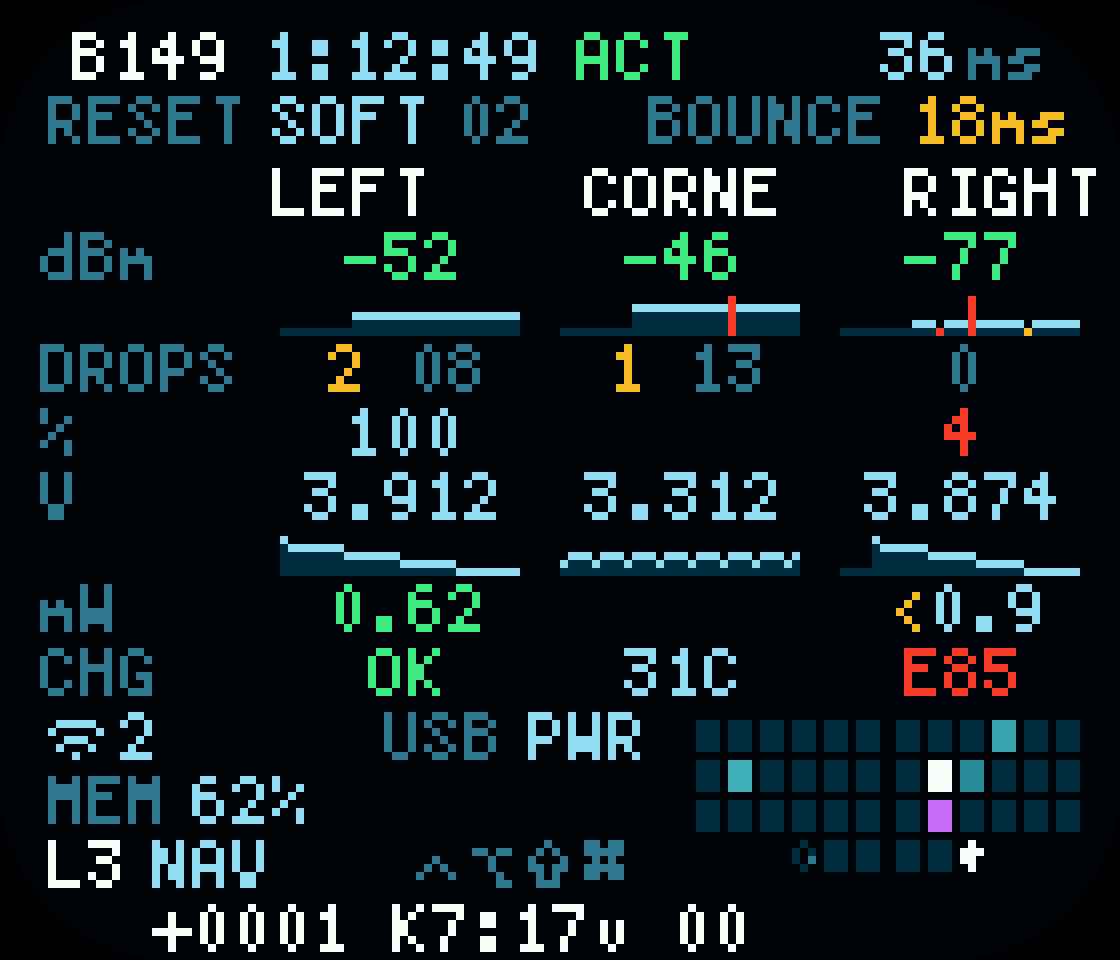
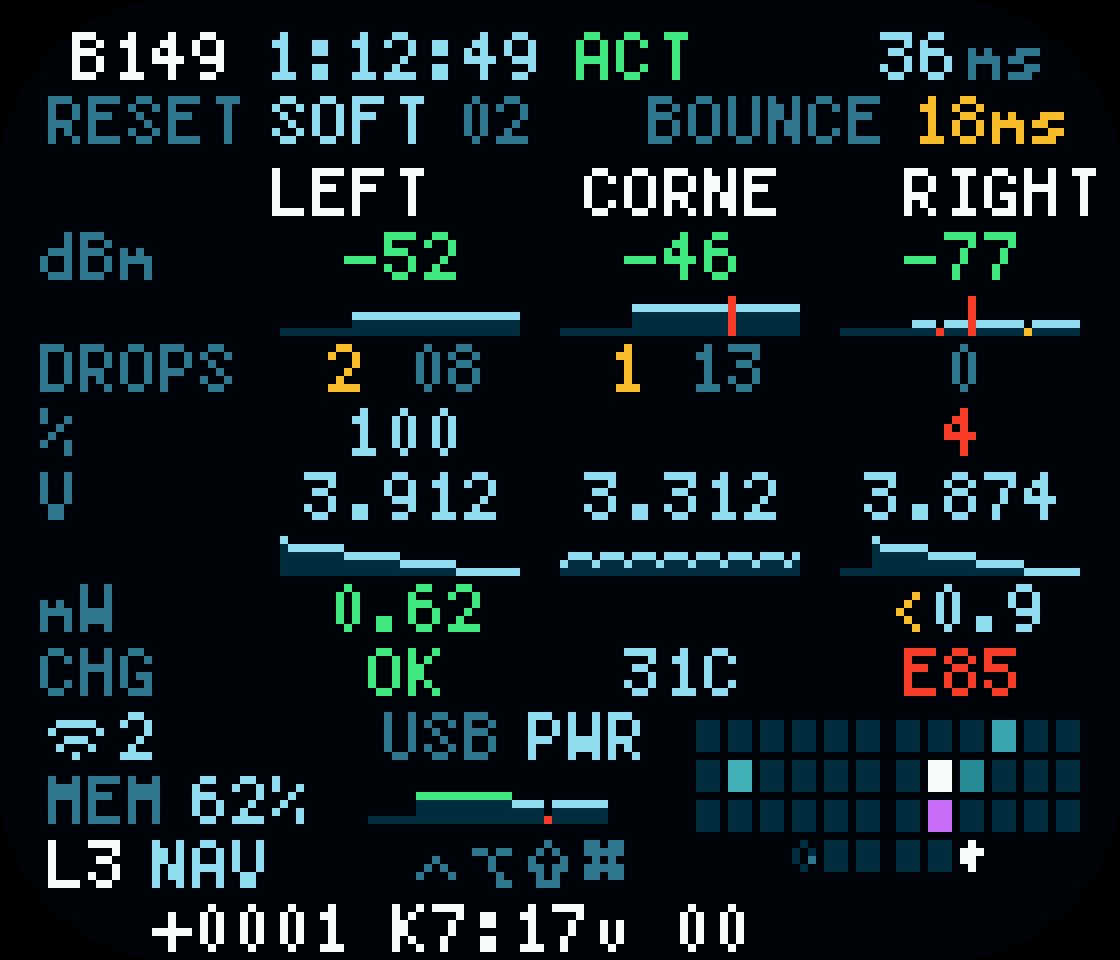
Clash: the dongle shows itself; Debug: the animations' frame rate
- The dongle on Clash's desk shows the last frame on its screen, so a
  picture of itself, smaller and smaller, and one cut in seven goes to it
  instead of a key. A 35x30 copy of the frame (1 KB) is all it keeps.
- Debug charts the animations' frame rate over the last 10 minutes, a
  column each 20 s, beside MEM, where there was room before the key map.
- Fix the build: the frame rate readout's `rate` clashed with the
  energy's.

Claude-Session: https://claude.ai/code/session_01UMKUY2wwN6UBcavEJGGmqi

Changed region(s): [[0.3125, 0.8125, 0.5625, 0.875]]

diff --git a/src/screen_fx/fx.c b/src/screen_fx/fx.c
@@ -1216,6 +1216,19 @@ static void mv_chart(uint8_t *fb, int x, int y, const uint16_t *log, int span) {
     chart(fb, x, y, high, color);
 }
 
+/* The animations' frame rate (fx_debug's fps_log): 30 fps the full height,
+ * green from 24, plain from 15, amber under that and red under 8; nothing
+ * where none was showing. */
+static void fps_chart(uint8_t *fb, int x, int y, const uint8_t *log) {
+    uint8_t high[DBG_CHART_W], color[DBG_CHART_W];
+    for (int i = 0; i < DBG_CHART_W; i++) {
+        const int fps = log[FX_FPS_HISTORY - DBG_CHART_W + i], h = fps ? 1 + fps * (DBG_CHART_H - 1) / 30 : 0;
+        high[i] = (uint8_t)(h > DBG_CHART_H ? DBG_CHART_H : h);
+        color[i] = fps >= 24 ? DBG_GOOD : fps >= 15 ? DBG_TEXT : fps >= 8 ? DBG_WARN : DBG_BAD;
+    }
+    chart(fb, x, y, high, color);
+}
+
 /* Text centred in column `col` of the table. */
 static void put_col(uint8_t *fb, int col, int y, const char *s, uint8_t color) {
     put(fb, DBG_COL_X(col) + (DBG_COL_W - (5 * (int)strlen(s) - 1)) / 2, y, s, color);
@@ -1542,8 +1555,13 @@ static void debug_frame(uint8_t *fb, const struct fx_input *in) {
     put(fb, x, out_y, d->usb == 2 ? "HID" : d->usb == 1 ? "PWR" : "--",
         d->usb == 2 ? (usb_out && in->status->host_connected ? DBG_GOOD : DBG_TEXT) : DBG_TEXT);
 
+    /* where the key map goes, bottom right */
+    const int board_pitch = board_cols > 10 ? 4 : 5;
+    const int board_left = FX_W - 1 - fx_corner_inset(out_y, out_y + 20) - board_cols * board_pitch;
+
     /* LVGL's memory used; then, only if there are any, the USB reports the
-     * computer didn't take (UE, as on Status) */
+     * computer didn't take (UE, as on Status); then the animations' frame
+     * rate, if there is room before the key map */
     x = 6;
     if (d->heap_known) {
         x = put(fb, x, out_y + 8, "MEM", DBG_LABEL) + 3;
@@ -1553,6 +1571,10 @@ static void debug_frame(uint8_t *fb, const struct fx_input *in) {
     if (d->usb_errors) {
         snprintf(buf, sizeof(buf), "UE%u", d->usb_errors > 99 ? 99 : d->usb_errors);
         x = put(fb, x, out_y + 8, buf, DBG_WARN) + 3;
+    }
+    x = x > 46 ? x : 46;
+    if (x + DBG_CHART_W <= board_left - 2) {
+        fps_chart(fb, x, out_y + 9, d->fps_log);
     }
 
     /* the layer (number and name), the modifiers lit while held; in the
@@ -1590,8 +1612,6 @@ static void debug_frame(uint8_t *fb, const struct fx_input *in) {
     }
 
     /* every key, lit while held: one that doesn't light isn't reaching the dongle */
-    const int board_pitch = board_cols > 10 ? 4 : 5;
-    const int board_left = FX_W - 1 - fx_corner_inset(out_y, out_y + 20) - board_cols * board_pitch;
     board(fb, in, board_left, out_y + 1, board_pitch, 4, 1, 1);
 }
 
@@ -2372,6 +2392,17 @@ static struct wall_tile {
     uint8_t tile, shade;          /* which, and how lit (256ths, less one) */
 } loose[TILES], wall_now; /* wall_now: the wall still standing, as one tile the size of the picture */
 
+/* The dongle's own screen, in Clash: the last frame, small, a pixel for
+ * each 4 by 4, found on the screen ray by ray (FILL_PICTURE), so it shows
+ * itself, smaller and smaller. Where the screen is: its top left corner,
+ * along its top, down its side, and its normal. */
+#define THUMB_W (FX_W / 4)
+#define THUMB_H (FX_H / 4)
+static uint8_t show_thumb[THUMB_H][THUMB_W];
+static bool show_live;
+static uint8_t show_screen_id;
+static float show_scr_o[3], show_scr_x[3], show_scr_y[3], show_scr_n[3];
+
 /* The points of the face being drawn, in the camera's space: static, as
  * the dongle's display thread has a small stack, and shared, as RAM is short. */
 static float show_cam_pts[SHOW_PTS][3];
@@ -2439,7 +2470,30 @@ static void part_point(float *out, const struct fx_part *p, float u, float v, fl
     show_point(out, p->x + u * c - v * s, p->y + u * s + v * c, z, p->kind & FX_PART_RIGHT ? -1 : 1);
 }
 
-enum { FILL_SOLID, FILL_GLINT, FILL_FLOOR_SHADOW, FILL_TOP_SHADOW };
+enum { FILL_SOLID, FILL_GLINT, FILL_FLOOR_SHADOW, FILL_TOP_SHADOW, FILL_PICTURE };
+
+/* What the dongle's screen shows at pixel (x, y): where the ray through it
+ * meets the screen, in show_thumb. */
+static uint8_t show_picture_at(int x, int y) {
+    float d[3], o[3];
+    for (int c = 0; c < 3; c++) {
+        d[c] = cam.f[c] * cam.focal + cam.r[c] * (x + 0.5f - FX_W / 2) + cam.u[c] * (FX_H / 2 - (y + 0.5f));
+        o[c] = show_scr_o[c] - cam.pos[c];
+    }
+    const float across = dot3(d, show_scr_n);
+    if (across > -1e-6f && across < 1e-6f) {
+        return show_thumb[0][0];
+    }
+    const float t = dot3(o, show_scr_n) / across;
+    float p[3];
+    for (int c = 0; c < 3; c++) {
+        p[c] = t * d[c] - o[c];
+    }
+    const float u = dot3(p, show_scr_x) / dot3(show_scr_x, show_scr_x);
+    const float v = dot3(p, show_scr_y) / dot3(show_scr_y, show_scr_y);
+    const int tx = (int)(clampf(u, 0, 0.999f) * THUMB_W), ty = (int)(clampf(v, 0, 0.999f) * THUMB_H);
+    return show_thumb[ty][tx];
+}
 
 /* Fill the face whose points, in the camera's space, are `pts`: in `color`,
  * marking the canvas with show_id; or as `mode` says. */
@@ -2504,6 +2558,10 @@ static void show_fill(uint8_t *fb, float (*pts)[3], int n, uint8_t color, uint8_
                         row[x] -= (row[x] - SHOW_MAT) % SHOW_BANDS; /* the case or the cover, in shadow */
                     }
                     break;
+                case FILL_PICTURE:
+                    row[x] = show_picture_at(x, y);
+                    ids[x] = show_id;
+                    break;
                 case FILL_GLINT: {
                     const float g = x + y * 0.5f - show_glint;
                     row[x] = g >= 0 && g < 5 ? glint : color;
@@ -2543,7 +2601,7 @@ static void show_face(uint8_t *fb, const float (*pts)[3], int n, const float *no
     float view[3] = {to_cam_v[0], to_cam_v[1], to_cam_v[2]};
     norm3(view);
     const uint8_t color = mat < 0 ? SHOW_PICTURE : (uint8_t)(SHOW_MAT + mat * SHOW_BANDS + show_band(normal, view));
-    show_fill(fb, c, n, color, mat < 0 ? FILL_SOLID : mode, 0);
+    show_fill(fb, c, n, color, mat < 0 ? (show_live ? FILL_PICTURE : FILL_SOLID) : mode, 0);
 }
 
 /* A shadow (FILL_FLOOR_SHADOW on the desk, FILL_TOP_SHADOW on the solids
@@ -2883,7 +2941,19 @@ static void show_dongle(uint8_t *fb) {
         }
     }
     show_next();
-    show_face(fb, (const float(*)[3])screen, 4, n, MAT_GLASS, FILL_GLINT);
+    if (show_live) {
+        /* showing the last frame: the corners are top left, top right, bottom right, bottom left */
+        for (int k = 0; k < 3; k++) {
+            show_scr_o[k] = screen[0][k];
+            show_scr_x[k] = screen[1][k] - screen[0][k];
+            show_scr_y[k] = screen[3][k] - screen[0][k];
+            show_scr_n[k] = n[k];
+        }
+        show_screen_id = show_id;
+        show_face(fb, (const float(*)[3])screen, 4, n, -1, FILL_SOLID);
+    } else {
+        show_face(fb, (const float(*)[3])screen, 4, n, MAT_GLASS, FILL_GLINT);
+    }
 }
 
 /* The shadows on the desk: the dongle's, and each half's. */
@@ -3252,6 +3322,7 @@ static void showroom_start(uint16_t *palette) {
     show_time = 0;
     show_glint = -100;
     show_intro_now = false;
+    show_live = false;
     wall_d = 0;
 }
 
@@ -3417,8 +3488,30 @@ static void clash_wide(struct clash_view *v) {
 
 /* Cut to a shot of key `key`: the faster the typing, the closer, lower,
  * more tilted and shorter, and the more it moves. `hard`: a shortcut's. */
+static void dongle_screen(float *mid, float *up);
+
+/* Cut to the dongle's own screen, from in front and above the board: the
+ * picture in the picture. */
+static void clash_cut_dongle(void) {
+    float up[3];
+    dongle_screen(clash_now.target, up);
+    clash_now.yaw = rndf() * 25;
+    clash_now.pitch = 10 + 8 * rndf();
+    clash_now.dist = DONGLE_SCREEN_W * (1.7f + 0.3f * rndf());
+    clash_now.focal = 115;
+    clash_now.roll = rndf() * 6 * clash_pace;
+    memset(&clash_drift, 0, sizeof(clash_drift));
+    clash_drift.dist = -clash_now.dist * 0.006f;
+    clash_drift.yaw = rndf() * 0.3f;
+    clash_shot = 50 - 25 * clash_pace;
+}
+
 static void clash_cut(int key, bool hard) {
     const float half = show_bw + show_gap, pace = hard ? 1 : clash_pace;
+    if (!hard && rnd() % 7 == 0) {
+        clash_cut_dongle();
+        return;
+    }
     clash_key_at(key, clash_now.target);
     clash_now.target[0] += rndf() * 25;
     clash_now.target[1] += rndf() * 25;
@@ -3487,6 +3580,7 @@ static void clash_colors(uint16_t *palette) {
 static void clash_start(uint16_t *palette) {
     showroom_start(palette); /* the board's size, the lights, the keys' glow; clash_colors colours it */
     show_glint = -10000; /* no glint sweeping over it */
+    show_live = true;    /* the dongle's screen shows the last frame */
     clash_pace = 0;
     clash_quiet = 1000;
     clash_shot = 0;
@@ -3560,9 +3654,9 @@ static void clash_edges_draw(uint8_t *fb) {
             if ((x > 0 && canvas[i - 1] < id) || (x < FX_W - 1 && canvas[i + 1] < id) ||
                 (y > 0 && canvas[i - FX_W] < id) || (y < FX_H - 1 && canvas[i + FX_W] < id)) {
                 fb[i] = (uint8_t)(CLASH_EDGE + m);
-            } else if ((x < FX_W - 1 && canvas[i + 1] == id && fb[i + 1] != fb[i]) ||
-                       (y < FX_H - 1 && canvas[i + FX_W] == id && fb[i + FX_W] != fb[i])) {
-                /* those to the right and below are not drawn over yet */
+            } else if (id != show_screen_id && ((x < FX_W - 1 && canvas[i + 1] == id && fb[i + 1] != fb[i]) ||
+                       (y < FX_H - 1 && canvas[i + FX_W] == id && fb[i + FX_W] != fb[i]))) {
+                /* those to the right and below are not drawn over yet; not across the dongle's picture */
                 fb[i] = (uint8_t)(CLASH_CREASE + m);
             }
         }
@@ -3685,6 +3779,12 @@ static void clash_label_draw(uint8_t *fb, bool impact) {
 
 static void clash_frame(uint8_t *fb, const struct fx_input *in) {
     show_heat_step(in);
+    /* the last frame, small, for the dongle's screen (it is still in fb) */
+    for (int y = 0; y < THUMB_H; y++) {
+        for (int x = 0; x < THUMB_W; x++) {
+            show_thumb[y][x] = fb[(y * 4 + 2) * FX_W + x * 4 + 2];
+        }
+    }
     const bool was_calm = clash_quiet > CLASH_CALM;
 
     /* the pace: up with each key, and down at once when the keys stop */

diff --git a/src/dongle_screen_fx.c b/src/dongle_screen_fx.c
@@ -1300,20 +1300,34 @@ static void frame_cb(struct k_work *work) {
     }
 
     fx_frame(screen - 1, frame, &in);
+    /* the animations' frame rate, a slot every FX_FPS_SLOT_S seconds, for Debug */
+    static uint32_t slot_from, slot_frames, slot_ms;
+    if (!plain) {
+        slot_frames++;
+        slot_ms += (uint32_t)(in.step * 33.3f);
+    }
+    if (now - slot_from >= FX_FPS_SLOT_S * 1000) {
+        K_SPINLOCK(&debug_lock) {
+            memmove(debug.fps_log, debug.fps_log + 1, FX_FPS_HISTORY - 1);
+            debug.fps_log[FX_FPS_HISTORY - 1] = slot_ms >= 2000 ? (uint8_t)MIN(slot_frames * 1000 / slot_ms, 255) : 0;
+        }
+        slot_from = now;
+        slot_frames = slot_ms = 0;
+    }
 #if IS_ENABLED(CONFIG_DONGLE_SCREEN_FX_FRAME_RATE)
     /* frames a second, then the last frame's time drawing it and sending it, ms */
-    static uint32_t rate_at, rate_frames, sent_ms;
-    static uint8_t rate;
+    static uint32_t fps_from, fps_frames, sent_ms;
+    static uint8_t fps_shown;
     const uint32_t drawn = k_uptime_get_32();
-    rate_frames++;
-    if (drawn - rate_at >= 1000) {
-        rate = (uint8_t)MIN(rate_frames * 1000 / (drawn - rate_at), 99);
-        rate_at = drawn;
-        rate_frames = 0;
+    fps_frames++;
+    if (drawn - fps_from >= 1000) {
+        fps_shown = (uint8_t)MIN(fps_frames * 1000 / (drawn - fps_from), 99);
+        fps_from = drawn;
+        fps_frames = 0;
     }
     if (!plain) {
         char text[24];
-        snprintf(text, sizeof(text), "%uFPS %u+%uMS", rate, (unsigned)MIN(drawn - now, 999), (unsigned)MIN(sent_ms, 999));
+        snprintf(text, sizeof(text), "%uFPS %u+%uMS", fps_shown, (unsigned)MIN(drawn - now, 999), (unsigned)MIN(sent_ms, 999));
         fx_draw_rate(frame, text);
     }
 #endif

diff --git a/src/screen_fx/fx.h b/src/screen_fx/fx.h
@@ -95,6 +95,8 @@ struct fx_theme {
 #define FX_CONN_USB (-1)    /* and for the computer over USB: ready to type (no radio to read) */
 #define FX_MV_HISTORY 30    /* slots of the volts history kept */
 #define FX_MV_SLOT_S 60     /* seconds in each: 30 of them are 30 minutes */
+#define FX_FPS_HISTORY 30   /* slots of the animations' frame rate kept */
+#define FX_FPS_SLOT_S 20    /* seconds in each: 30 of them are 10 minutes */
 
 /* Two readings of a link (signal_log's or conn_log's) as one: down if
  * either was, else the weaker dBm, else idle, else 0 (not known). */
@@ -199,6 +201,9 @@ struct fx_debug {
      * millivolts at the end of each FX_MV_SLOT_S seconds, the newest last
      * and still filling; left, right, the dongle; 0 not known */
     uint16_t mv_log[3][FX_MV_HISTORY];
+    /* the animations' frames a second: the average over each FX_FPS_SLOT_S
+     * seconds that one was showing, the newest last; 0 none was */
+    uint8_t fps_log[FX_FPS_HISTORY];
     uint16_t dongle_mv;    /* the dongle's 3.3 V supply, millivolts; 0 when not known */
     bool dongle_temp_known;
     int8_t dongle_temp_c;  /* the dongle's chip temperature */

diff --git a/tools/fx_preview/main.c b/tools/fx_preview/main.c
@@ -251,6 +251,10 @@ int main(int argc, char **argv) {
         debug.mv_log[1][i] = (uint16_t)(i < 4 ? 0 : 3874 + (FX_MV_HISTORY - 1 - i) * 9);
         debug.mv_log[2][i] = (uint16_t)(3312 + i % 4 - 2);
     }
+    /* and the animations' frame rate: none, then one steady, then one heavier */
+    for (int i = 0; i < FX_FPS_HISTORY; i++) {
+        debug.fps_log[i] = (uint8_t)(i < 6 ? 0 : i < 18 ? 27 + i % 2 : i == 22 ? 7 : 17 + i % 3);
+    }
     const int8_t *encoders;
     int n_encoders;
     debug.keyboard = preview_board(&encoders, &n_encoders);

diff --git a/src/screen_fx/README.md b/src/screen_fx/README.md
@@ -24,7 +24,7 @@ without needing the keyboard to.
 | 2 | Status | the board's keys, batteries, signal and connections at a glance: [below](#status) |
 | 3 | Typist | your typing speed, and the board as it is, its keys lighting as you type: [below](#typist) |
 | 4 | Terminal | what you type, fading out (passwords included, while it is showing) |
-| 5 | Clash | the board in 3D, in neon, filmed like a fight scene: as you type the camera cuts from key to key, closer and quicker the faster you go, and the moment you stop it slows and pulls back. A shortcut (a key with Ctrl, Alt or Cmd) flashes an impact frame and shows its keys, with a count when they come one after another |
+| 5 | Clash | the board in 3D, in the theme's colours, filmed like a fight scene: as you type the camera cuts from key to key, closer and quicker the faster you go, and the moment you stop it slows and pulls back. A shortcut (a key with Ctrl, Alt or Cmd) flashes an impact frame (ink on paper, then screentone) and shows its keys, with a count when they come one after another. The dongle on the desk shows the screen itself, smaller and smaller, and now and then the camera cuts to it |
 
 After 15 minutes without a key, or when the lock key is let go, a
 screensaver takes over: **Warp** (stars to light speed), **Code** (an alien
@@ -95,7 +95,7 @@ speed is on Typist, the battery levels on Typist and Status.
 | `RESET SOFT 02  BOUNCE 18ms` | why it last restarted (`POR`, `PIN`, `SOFT`; red `WDOG`, `LOCK`, `BRWN`; all the reasons in hex), or a red `HANG`/`CRASH` with its code and address; the quickest any key has come back down, amber under 30 ms: maybe a bouncing switch |
 | `LEFT`, the keyboard's name, `RIGHT` | a column each for the halves and the dongle, red when its link is down (the dongle's is to the computer): rows below |
 | waves, `USB` | the Bluetooth profile in use, as over the animations (green: connected, white: paired, dim: free; flashing for 3 s after you switch); USB `--`, `PWR` or `HID` |
-| `MEM 62% UE3` | LVGL memory used; only if there are any, `UE` and the USB reports the computer didn't take |
+| `MEM 62% UE3` | LVGL memory used; only if there are any, `UE` and the USB reports the computer didn't take; then the animations' frame rate over the last 10 minutes, a column each 20 s (30 fps full height): green at 24 or more, amber under 15, red under 8, nothing where none was showing (only when it fits before the key map) |
 | `L3 NAV ⌃⌥⇧⌘` | the top layer and its name; the modifiers, lit while held |
 | last line | the last key, keycode or encoder event, with the ms since the one before |
 | key map | every key, lit while held; all of a half red while it isn't connected. A key that doesn't light isn't reaching the dongle |
